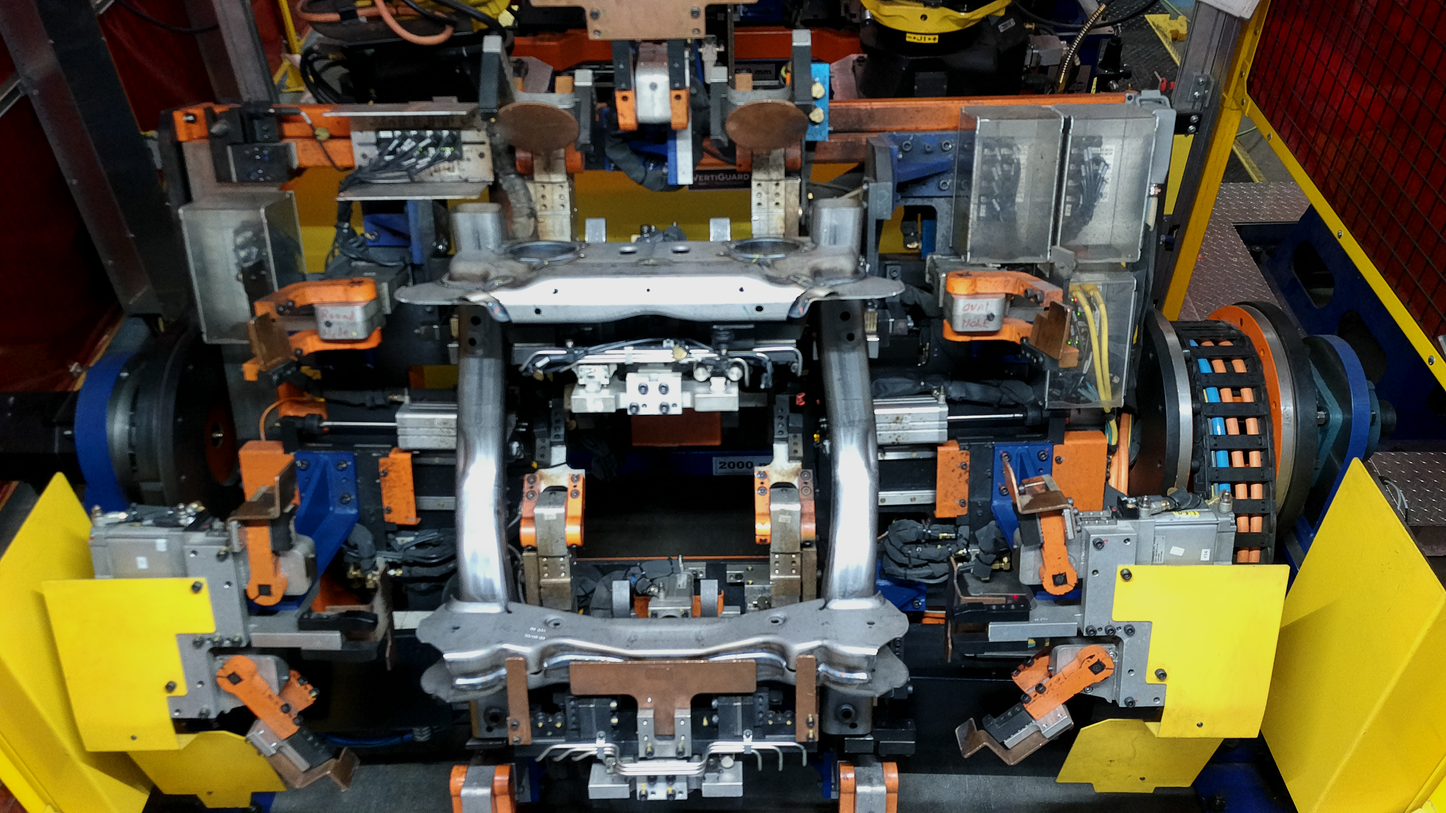
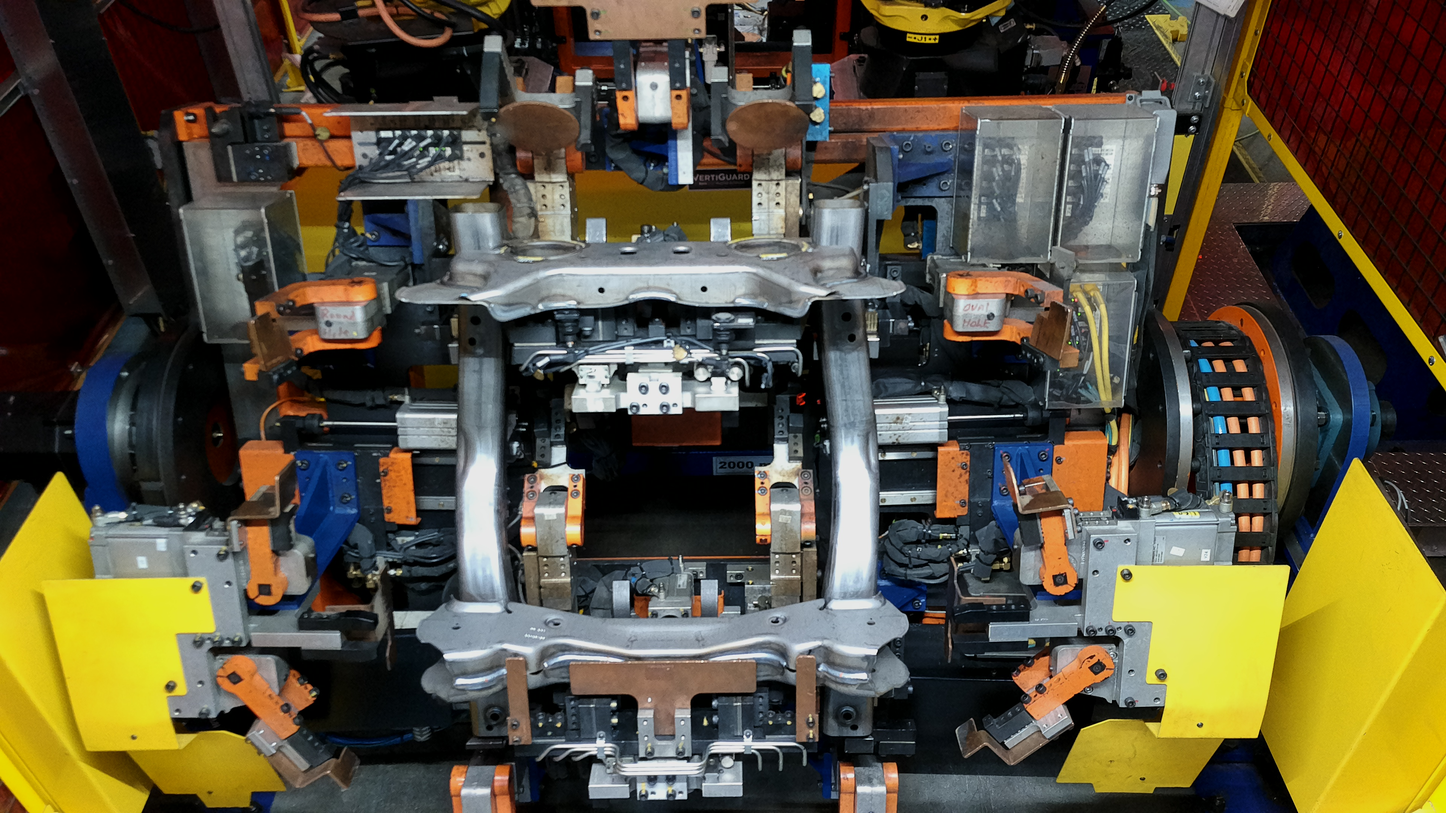
fixed white balance/ exposure update

diff --git a/Object_Detection/imageCaptureClasses.py b/Object_Detection/imageCaptureClasses.py
@@ -17,10 +17,13 @@ class imageCapture:
         self.MSEresults = 0
 
     def setParameters(self):
-        lensPos = 150
-        brightness = 0
+        lensPos = 108
+        brightness = -1
         BRIGHT_STEP = 1
         LENS_STEP = 3
+        awb_lock = False
+        ae_lock = False
+
         img = 1
         imgUpdated = False
         
@@ -44,7 +47,6 @@ class imageCapture:
             key = cv.waitKey(1)
             # focal length adjestment
             if key in [ord(','), ord('.')]:
-                print("hi")
                 if key == ord(','):
                     lensPos -= LENS_STEP
                 elif key == ord('.'):
@@ -65,6 +67,18 @@ class imageCapture:
                 print("Brightness:", brightness)
                 ctrl = dai.CameraControl()
                 ctrl.setBrightness(brightness)
+                self.qControl.send(ctrl) 
+            elif key == ord('1'):
+                awb_lock = not awb_lock
+                print("Auto white balance lock:", awb_lock)
+                ctrl = dai.CameraControl()
+                ctrl.setAutoWhiteBalanceLock(awb_lock)
+                self.qControl.send(ctrl) 
+            elif key == ord('2'):
+                ae_lock = not ae_lock
+                print("Auto exposure lock:", ae_lock)
+                ctrl = dai.CameraControl()
+                ctrl.setAutoExposureLock(ae_lock)
                 self.qControl.send(ctrl) 
             
             if key == ord("q"):
@@ -105,13 +119,9 @@ class imageCapture:
                 
             if self.qStill.has():
 
-                # ctrl = dai.CameraControl()
-                # ctrl.setBrightness(brightness)
-                # self.qControl.send(ctrl) 
-
-                # ctrl = dai.CameraControl()
-                # ctrl.setManualFocus(lensPos)
-                # self.qControl.send(ctrl)
+                ctrl = dai.CameraControl()
+                ctrl.setBrightness(brightness)
+                self.qControl.send(ctrl) 
 
                 # time.sleep(3)
 

diff --git a/Object_Detection/main.py b/Object_Detection/main.py
@@ -9,8 +9,8 @@ from imagePredictionClass import MSEStabilization, getPassRef
 import time
 import os
 import pdb
-# from pylogix import PLC
-# from PLCUpdate import transferToPLC
+from pylogix import PLC
+from PLCUpdate import transferToPLC
 
 #-----------------------------------------Importing folders, images-----------------------------------------#
 #Photos Path
@@ -107,7 +107,7 @@ with dai.Device(pipeline) as device:
     cv.waitKey(0)
 
     #After loading all parts, camera begins capturing reference photos
-    for i in range(3):
+    for i in range(10):
         # captureObject.autoCapture("Test", errDir, processingObject)
         testImg = captureObject.captureOne(os.path.join(errDir, "Test " + str(i) + ".jpg"), brightness, lensPos)
         time.sleep(0.5)
@@ -133,8 +133,10 @@ with dai.Device(pipeline) as device:
     #-------------------------------------------------------------------------------------------#
 
     while True:
-        img = cv.imread(captureObject.autoCapture("Test.jpg", photoDirectoryName, processingObject, brightness, lensPos))
+
         
+        img = cv.imread(captureObject.autoCapture("Test.jpg", photoDirectoryName, processingObject, brightness, lensPos))
+            
         processingObject.setTestImg(img)  
         frame = processingObject.displayResultPosition()
         error = processingObject.compareImage() # compare w all the parts
@@ -146,18 +148,21 @@ with dai.Device(pipeline) as device:
         result = prediction.result()
         print(result)
 
+        transferToPLC("OP100", result)
+
         frame = cv.pyrDown(frame)
         frame = cv.pyrDown(frame)
         cv.imshow("errors", frame)
+        
+        
+        
         cv.waitKey(1)
-        
-        
 
 
 
 
         
-    #     transferToPLC("OP100", RESULTARRAYTBD)
+
         
         # # for i in range(len(result)):
         # for object in station100ProcessingObjectArray:

diff --git a/Object_Detection/imagePredictionClass.py b/Object_Detection/imagePredictionClass.py
@@ -28,9 +28,9 @@ class MSEStabilization:
         for i in range(self.numParts):
             ans = self.errors[i] - self.passRef[i]
             if ans <= 0:
-                totalResultBool.append(True)
+                totalResultBool.append(1)
             else:
-                totalResultBool.append(False)
+                totalResultBool.append(0)
                 
         return totalResultBool
     

diff --git a/Object_Detection/PLCUpdate.py b/Object_Detection/PLCUpdate.py
@@ -19,7 +19,7 @@ def writePLC(ok, station, resultError):
             Feature_all = comm.Write("Camera_Output.1", resultError)
             print(Feature_all.TagName, Feature_all.Value, Feature_all.Status)
             # print(station)
-            print("Transsfer done")
+            print("Transfer done")
     else:
         print("Transfer fail - result unvalid")
 
